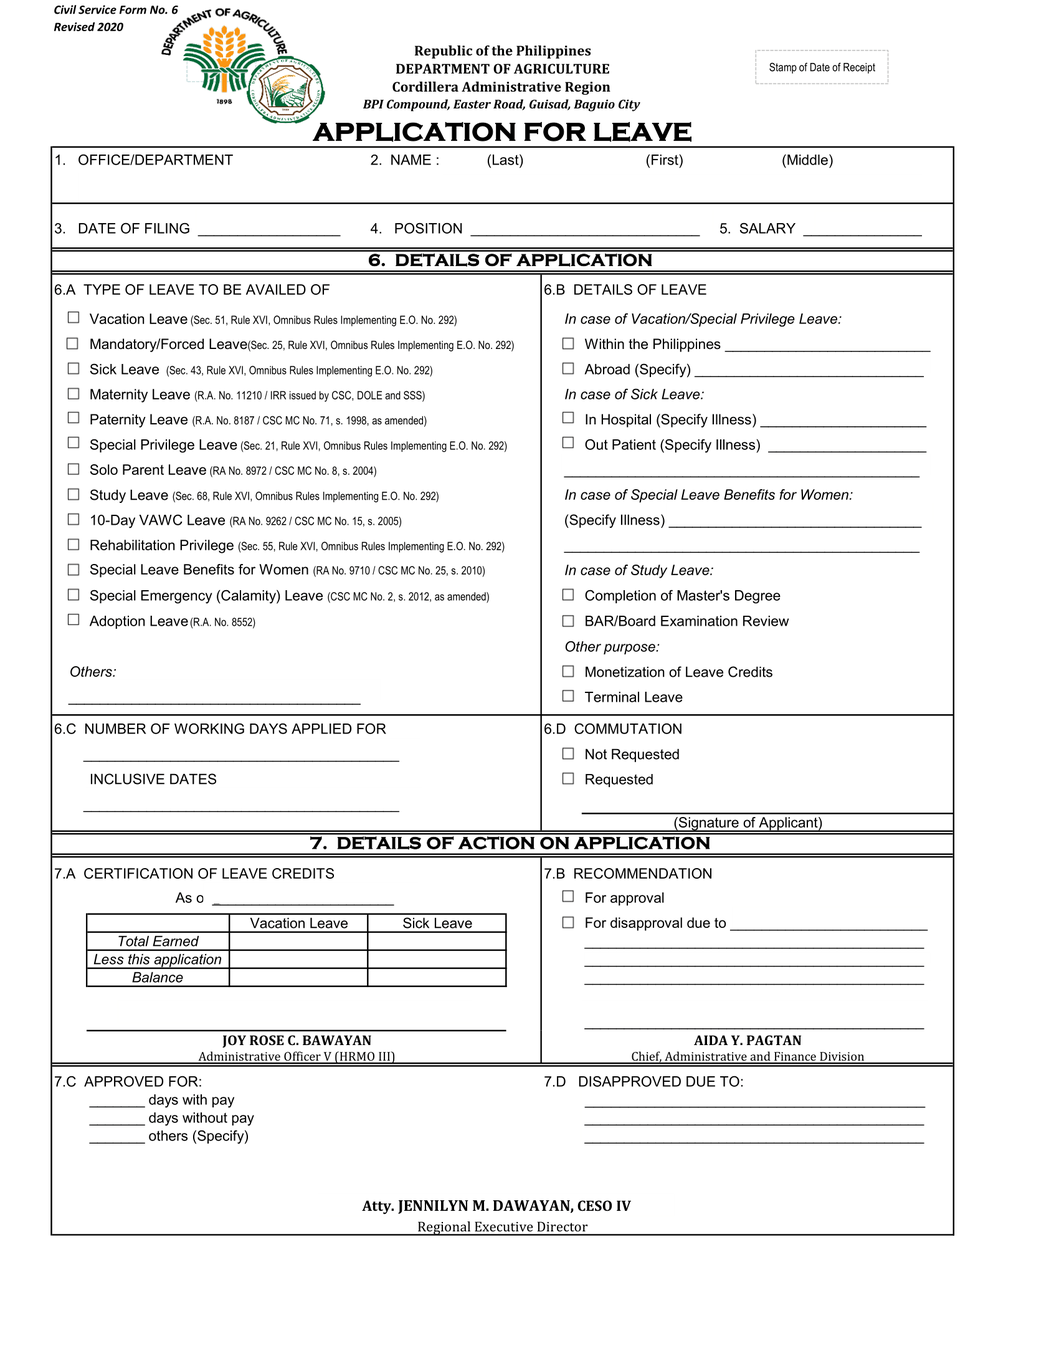
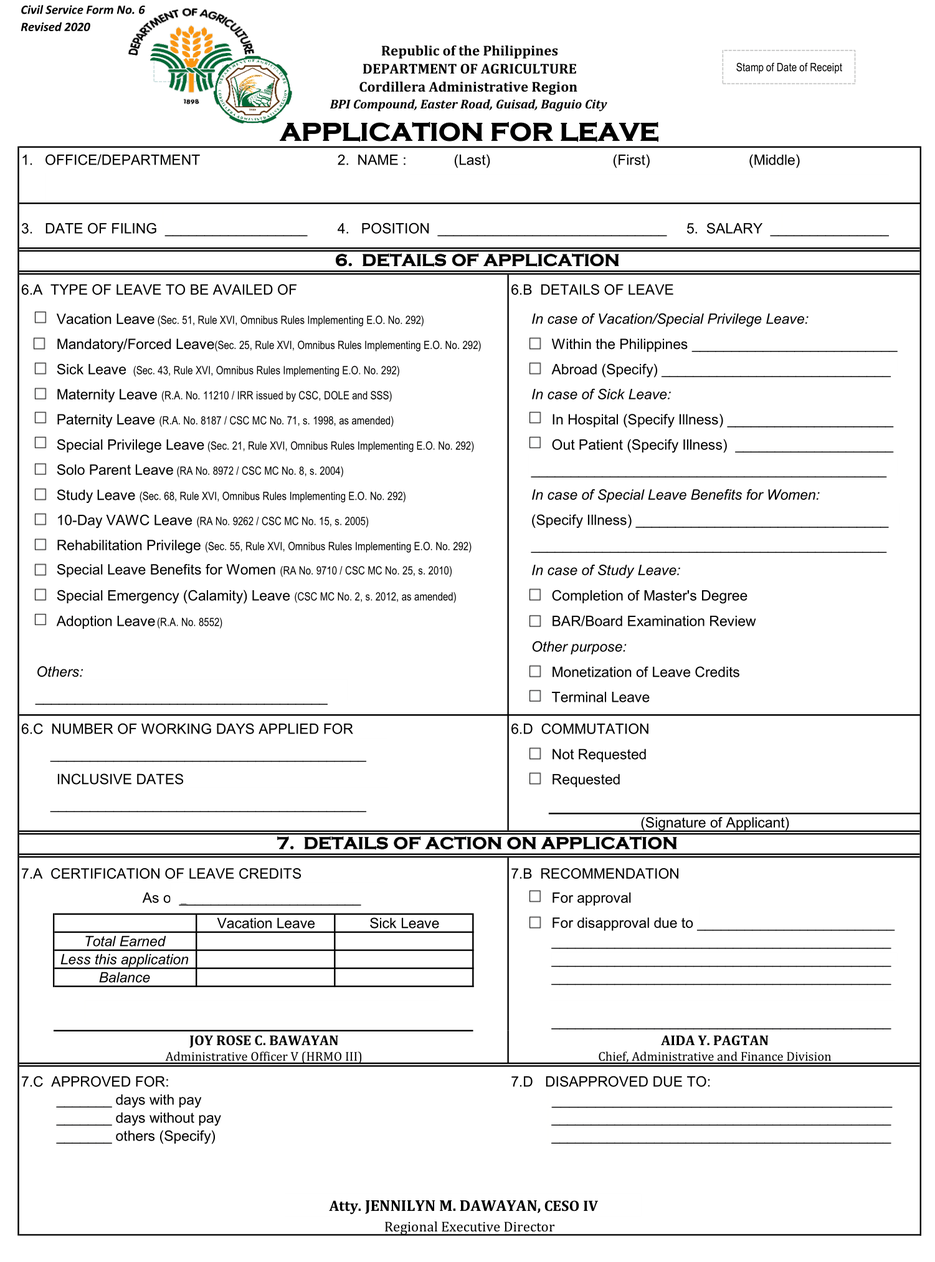
Form Updates

diff --git a/resources/views/leave/print.blade.php b/resources/views/leave/print.blade.php
@@ -14,10 +14,11 @@
         }
         .print-bg-container {
             position: relative;
-            width: 850px;
-            height: 1200px;
-            margin: 30px auto;
+            width: 750px;
+            height: 1120px;
+            margin: 0 auto 0 auto;
             background: #fff;
+            border: none;
         }
         .print-bg-container img.bg {
             position: absolute;
@@ -35,32 +36,36 @@
             box-sizing: border-box;
         }
         @media print {
-            body { background: #fff; }
-            .print-bg-container { margin: 0; }
+            body { 
+                background: #fff; 
+                margin: 0;
+                padding: 0;
+            }
+            .print-bg-container { 
+                margin: 0; 
+                page-break-inside: avoid;
+                break-inside: avoid;
+            }
+            @page {
+                margin: 0;
+                size: A4 portrait;
+            }
         }
         /* Custom checkbox style for print overlay */
-        .print-bg-container input[type="checkbox"] {
+        .print-bg-container .custom-checkbox {
+            display: inline-block;
             width: 11px;
-            height: 12px;
-            margin: 0 2px 0 0;
-            vertical-align: middle;
-            appearance: none;
-            -webkit-appearance: none;
-            -moz-appearance: none;
+            height: 11px;
             border: 1px solid #000;
-            background-color: #fff;
-            border-radius: 2px;
+            background: #fff;
             position: relative;
-            cursor: pointer;
+            vertical-align: middle;
+            margin: 0 2px 0 0;
         }
-        .print-bg-container input[type="checkbox"]:checked {
-            background-color: #fff;
-            border-color: #000;
-        }
-        .print-bg-container input[type="checkbox"]:checked::after {
+        .print-bg-container .custom-checkbox.checked::after {
             content: '';
             position: absolute;
-            left: 2px;
+            left: 3px;
             top: 0px;
             width: 4px;
             height: 7px;
@@ -68,9 +73,24 @@
             border-width: 0 2px 2px 0;
             transform: rotate(45deg);
         }
+        .print-bg-container input[type="checkbox"] {
+            display: none !important;
+        }
+        @media print {
+            #printBtn, #downloadBtn, .size-indicator { display: none !important; }
+            .print-bg-container { border: none; }
+        }
     </style>
 </head>
 <body>
+    <div style="position:fixed; top:20px; right:30px; z-index:1000; display:flex; gap:10px;">
+        <button id="downloadBtn" style="padding:10px 22px; font-size:16px; background:#2196F3; color:#fff; border:none; border-radius:5px; cursor:pointer;">
+            Download PDF
+        </button>
+        <button id="printBtn" style="padding:10px 22px; font-size:16px; background:#4CAF50; color:#fff; border:none; border-radius:5px; cursor:pointer;">
+            Print
+        </button>
+    </div>
     <div class="print-bg-container" id="printArea">
         <img src="{{ asset('cs_form_6_bg.png') }}" class="bg" alt="Form Background">
         <!-- Form fields -->
@@ -102,166 +122,166 @@
         <div class="field" id="field-office" style="top:150px; left:59px; width:180px;">
             {{ $leave->user->offices ?? $leave->office ?? '' }}
         </div>
-        <div class="field" id="field-name_last" style="top:150px; left:357px; width:120px;">
+        <div class="field" id="field-name_last" style="top:160px; left:345px; width:120px;">
             {{ $last }}
         </div>
-        <div class="field" id="field-name_first" style="top:151px; left:481px; width:120px;">
+        <div class="field" id="field-name_first" style="top:160px; left:466px; width:120px;">
             {{ $first }}
         </div>
-        <div class="field" id="field-name_middle" style="top:151px; left:631px; width:69px; height:21px;">
+        <div class="field" id="field-name_middle" style="top:160px; left:619px; width:69px; height:21px;">
             {{ $middle }}
         </div>
-        <div class="field" id="field-filing_date" style="top:190px; left:160px; width:119px; height:20px;">
+        <div class="field" id="field-filing_date" style="top:193px; left:140px; width:119px; height:20px;">
             {{ $filingDate ?? ($leave->filing_date ?? '') }}
         </div>
-        <div class="field" id="field-position" style="top:190px; left:380px; width:193px; height:20px;">
+        <div class="field" id="field-position" style="top:193px; left:360px; width:193px; height:20px;">
             {{ $leave->user->position ?? $leave->position ?? '' }}
         </div>
-        <div class="field" id="field-salary" style="top:190px; left:645px; width:103px; height:20px;">
+        <div class="field" id="field-salary" style="top:193px; left: 625px;px; width:103px; height:20px;">
             {{ $leave->salary ?? '' }}
         </div>
         
         <!-- Leave Type Checkboxes -->
-        <div class="field" id="field-leave_type_vacation" style="top:268px; left:53px; width:40px; height:20px;">
-            <input type="checkbox" id="leave_type_vacation" {{ in_array('Vacation Leave', $leaveTypesArr) ? 'checked' : '' }} disabled>
+        <div class="field" id="field-leave_type_vacation" style="top:272px; left:26px; width:40px; height:20px;">
+            <span class="custom-checkbox{{ in_array('Vacation Leave', $leaveTypesArr) ? ' checked' : '' }}"></span>
         </div>
-        <div class="field" id="field-leave_type_mandatory" style="top:291px; left:53px; width:40px; height:20px;">
-            <input type="checkbox" id="leave_type_mandatory" {{ in_array('Mandatory/Forced Leave', $leaveTypesArr) ? 'checked' : '' }} disabled>
+        <div class="field" id="field-leave_type_mandatory" style="top:295px; left:26px; width:40px; height:20px;">
+            <span class="custom-checkbox{{ in_array('Mandatory/Forced Leave', $leaveTypesArr) ? ' checked' : '' }}"></span>
         </div>
-        <div class="field" id="field-leave_type_sick" style="top:313px; left:53px; width:40px; height:20px;">
-            <input type="checkbox" id="leave_type_sick" {{ in_array('Sick Leave', $leaveTypesArr) ? 'checked' : '' }} disabled>
+        <div class="field" id="field-leave_type_sick" style="top:317px; left:26px; width:40px; height:20px;">
+            <span class="custom-checkbox{{ in_array('Sick Leave', $leaveTypesArr) ? ' checked' : '' }}"></span>
         </div>
-        <div class="field" id="field-leave_type_maternity" style="top:335px; left:53px; width:40px; height:20px;">
-            <input type="checkbox" id="leave_type_maternity" {{ in_array('Maternity Leave', $leaveTypesArr) ? 'checked' : '' }} disabled>
+        <div class="field" id="field-leave_type_maternity" style="top:339px; left:26px; width:40px; height:20px;">
+            <span class="custom-checkbox{{ in_array('Maternity Leave', $leaveTypesArr) ? ' checked' : '' }}"></span>
         </div>
-        <div class="field" id="field-leave_type_paternity" style="top:356px; left:53px; width:40px; height:20px;">
-            <input type="checkbox" id="leave_type_paternity" {{ in_array('Paternity Leave', $leaveTypesArr) ? 'checked' : '' }} disabled>
+        <div class="field" id="field-leave_type_paternity" style="top:360px; left:26px; width:40px; height:20px;">
+            <span class="custom-checkbox{{ in_array('Paternity Leave', $leaveTypesArr) ? ' checked' : '' }}"></span>
         </div>
-        <div class="field" id="field-leave_type_special_privilege" style="top:378px; left:53px; width:40px; height:20px;">
-            <input type="checkbox" id="leave_type_special_privilege" {{ in_array('Special Privilege Leave', $leaveTypesArr) ? 'checked' : '' }} disabled>
+        <div class="field" id="field-leave_type_special_privilege" style="top:382px; left:26px; width:40px; height:20px;">
+            <span class="custom-checkbox{{ in_array('Special Privilege Leave', $leaveTypesArr) ? ' checked' : '' }}"></span>
         </div>
-        <div class="field" id="field-leave_type_solo_parent" style="top:401px; left:53px; width:40px; height:20px;">
-            <input type="checkbox" id="leave_type_solo_parent" {{ in_array('Solo Parent Leave', $leaveTypesArr) ? 'checked' : '' }} disabled>
+        <div class="field" id="field-leave_type_solo_parent" style="top:405px; left:26px; width:40px; height:20px;">
+            <span class="custom-checkbox{{ in_array('Solo Parent Leave', $leaveTypesArr) ? ' checked' : '' }}"></span>
         </div>
-        <div class="field" id="field-leave_type_study" style="top:423px; left:53px; width:40px; height:20px;">
-            <input type="checkbox" id="leave_type_study" {{ in_array('Study Leave', $leaveTypesArr) ? 'checked' : '' }} disabled>
+        <div class="field" id="field-leave_type_study" style="top:429px; left:26px; width:40px; height:20px;">
+            <span class="custom-checkbox{{ in_array('Study Leave', $leaveTypesArr) ? ' checked' : '' }}"></span>
         </div>
-        <div class="field" id="field-leave_type_vawc" style="top:445px; left:53px; width:40px; height:20px;">
-            <input type="checkbox" id="leave_type_vawc" {{ in_array('10-Day VAWC Leave', $leaveTypesArr) ? 'checked' : '' }} disabled>
+        <div class="field" id="field-leave_type_vawc" style="top:450px; left:26px; width:40px; height:20px;">
+            <span class="custom-checkbox{{ in_array('10-Day VAWC Leave', $leaveTypesArr) ? ' checked' : '' }}"></span>
         </div>
-        <div class="field" id="field-leave_type_rehabilitation" style="top:467px; left:53px; width:40px; height:20px;">
-            <input type="checkbox" id="leave_type_rehabilitation" {{ in_array('Rehabilitation Privilege', $leaveTypesArr) ? 'checked' : '' }} disabled>
+        <div class="field" id="field-leave_type_rehabilitation" style="top:473px; left:26px; width:40px; height:20px;">
+            <span class="custom-checkbox{{ in_array('Rehabilitation Privilege', $leaveTypesArr) ? ' checked' : '' }}"></span>
         </div>
-        <div class="field" id="field-special_leave_benefits" style="top:489px; left:53px; width:40px; height:20px;">
-            <input type="checkbox" id="special_leave_benefits" {{ in_array('Special Leave Benefits for Women', $leaveTypesArr) ? 'checked' : '' }} disabled>
+        <div class="field" id="field-special_leave_benefits" style="top:495px; left:26px; width:40px; height:20px;">
+            <span class="custom-checkbox{{ in_array('Special Leave Benefits for Women', $leaveTypesArr) ? ' checked' : '' }}"></span>
         </div>
-        <div class="field" id="field-leave_type_calamity" style="top:511px; left:53px; width:40px; height:20px;">
-            <input type="checkbox" id="leave_type_calamity" {{ in_array('Special Emergency (Calamity) Leave', $leaveTypesArr) ? 'checked' : '' }} disabled>
+        <div class="field" id="field-leave_type_calamity" style="top:517px; left:26px; width:40px; height:20px;">
+            <span class="custom-checkbox{{ in_array('Special Emergency (Calamity) Leave', $leaveTypesArr) ? ' checked' : '' }}"></span>
         </div>
-        <div class="field" id="field-leave_type_adoption" style="top:533px; left:53px; width:40px; height:20px;">
-            <input type="checkbox" id="leave_type_adoption" {{ in_array('Adoption Leave', $leaveTypesArr) ? 'checked' : '' }} disabled>
+        <div class="field" id="field-leave_type_adoption" style="top:539px; left:26px; width:40px; height:20px;">
+            <span class="custom-checkbox{{ in_array('Adoption Leave', $leaveTypesArr) ? ' checked' : '' }}"></span>
         </div>
-        <div class="field" id="field-leave_type_other" style="top:600px; left:60px; width:245px; height:20px;">
+        <div class="field" id="field-leave_type_other" style="top:607px; left:40px; width:245px; height:20px;">
             {{ $leave->leave_type_other ?? '' }}
         </div>
         
         <!-- Detail Checkboxes -->
-        <div class="field" id="field-within_ph" style="top:290px; left:450px; width:40px; height:20px;">
-            <input type="checkbox" id="within_ph" {{ $leave->within_ph == 'Yes' ? 'checked' : '' }} disabled>
+        <div class="field" id="field-within_ph" style="top:295px; left:423px; width:40px; height:20px;">
+            <span class="custom-checkbox{{ $leave->within_ph == 'Yes' ? ' checked' : '' }}"></span>
         </div>
-        <div class="field" id="field-within_ph_details" style="top:290px; left:590px; width:180px; height:20px;">
+        <div class="field" id="field-within_ph_details" style="top:295px; left:563px; width:180px; height:20px;">
             {{ $leave->within_ph_details ?? '' }}
         </div>
-        <div class="field" id="field-abroad" style="top:312px; left:450px; width:40px; height:20px;">
-            <input type="checkbox" id="abroad" {{ $leave->abroad == 'Yes' ? 'checked' : '' }} disabled>
+        <div class="field" id="field-abroad" style="top:317px; left:423px; width:40px; height:20px;">
+            <span class="custom-checkbox{{ $leave->abroad == 'Yes' ? ' checked' : '' }}"></span>
         </div>
-        <div class="field" id="field-abroad_details" style="top:312px; left:565px; width:194px; height:20px;">
+        <div class="field" id="field-abroad_details" style="top:317px; left:538px; width:194px; height:20px;">
             {{ $leave->abroad_details ?? '' }}
         </div>
-        <div class="field" id="field-in_hospital" style="top:355px; left:450px; width:40px; height:20px;">
-            <input type="checkbox" id="in_hospital" {{ $leave->in_hospital == 'Yes' ? 'checked' : '' }} disabled>
+        <div class="field" id="field-in_hospital" style="top:360px; left:423px; width:40px; height:20px;">
+            <span class="custom-checkbox{{ $leave->in_hospital == 'Yes' ? ' checked' : '' }}"></span>
         </div>
-        <div class="field" id="field-in_hospital_details" style="top:358px; left:612px; width:146px; height:20px;">
+        <div class="field" id="field-in_hospital_details" style="top:363px; left:585px; width:146px; height:20px;">
             {{ $leave->in_hospital_details ?? '' }}
         </div>
-        <div class="field" id="field-out_patient" style="top:377px; left:450px; width:40px; height:20px;">
-            <input type="checkbox" id="out_patient" {{ $leave->out_patient == 'Yes' ? 'checked' : '' }} disabled>
+        <div class="field" id="field-out_patient" style="top:382px; left:423px; width:40px; height:20px;">
+            <span class="custom-checkbox{{ $leave->out_patient == 'Yes' ? ' checked' : '' }}"></span>
         </div>
-        <div class="field" id="field-out_patient_details" style="top:400px; left:455px; width:289px; height:23px;">
+        <div class="field" id="field-out_patient_details" style="top:407px; left:440px; width:289px; height:23px;">
             {{ $leave->out_patient_details ?? '' }}
         </div>
 
-        <div class="field" id="field-special_leave_details" style="top:468px; left:455px; width:292px; height:20px;">
+        <div class="field" id="field-special_leave_details" style="top:473px; left:440px; width:292px; height:20px;">
             {{ $leave->special_leave_details ?? '' }}
         </div>
-        <div class="field" id="field-completion_masters" style="top:510px; left:450px; width:40px; height:20px;">
-            <input type="checkbox" id="completion_masters" {{ $leave->completion_masters == 'Yes' ? 'checked' : '' }} disabled>
+        <div class="field" id="field-completion_masters" style="top:517px; left:423px; width:40px; height:20px;">
+            <span class="custom-checkbox{{ $leave->completion_masters == 'Yes' ? ' checked' : '' }}"></span>
         </div>
-        <div class="field" id="field-bar_exam" style="top:533px; left:450px; width:40px; height:20px;">
-            <input type="checkbox" id="bar_exam" {{ $leave->bar_exam == 'Yes' ? 'checked' : '' }} disabled>
+        <div class="field" id="field-bar_exam" style="top:540px; left:423px; width:40px; height:20px;">
+            <span class="custom-checkbox{{ $leave->bar_exam == 'Yes' ? ' checked' : '' }}"></span>
         </div>
-        <div class="field" id="field-monetization" style="top:577px; left:450px; width:40px; height:20px;">
-            <input type="checkbox" id="monetization" {{ $leave->monetization == 'Yes' ? 'checked' : '' }} disabled>
+        <div class="field" id="field-monetization" style="top:585px; left:423px; width:40px; height:20px;">
+            <span class="custom-checkbox{{ $leave->monetization == 'Yes' ? ' checked' : '' }}"></span>
         </div>
-        <div class="field" id="field-terminal_leave" style="top:599px; left:450px; width:40px; height:20px;">
-            <input type="checkbox" id="terminal_leave" {{ $leave->terminal_leave == 'Yes' ? 'checked' : '' }} disabled>
+        <div class="field" id="field-terminal_leave" style="top:607px; left:423px; width:40px; height:20px;">
+            <span class="custom-checkbox{{ $leave->terminal_leave == 'Yes' ? ' checked' : '' }}"></span>
         </div>
         
         <!-- Number of Days and Dates -->
-        <div class="field" id="field-num_days" style="top:650px; left:100px; width:259px; height:20px;">
+        <div class="field" id="field-num_days" style="top:658px; left:100px; width:259px; height:20px;">
             {{ $leave->num_days ?? '' }}
         </div>
-        <div class="field" id="field-inclusive_dates" style="top:694px; left:66px; width:258px; height:20px;">
+        <div class="field" id="field-inclusive_dates" style="top:705px; left:50px; width:258px; height:20px;">
             {{ $leave->inclusive_dates ?? '' }}
         </div>
         
         <!-- Commutation Checkboxes -->
-        <div class="field" id="field-commutation_not_requested" style="top:649px; left:450px; width:40px; height:20px;">
-            <input type="checkbox" id="commutation_not_requested" {{ $leave->commutation == 'Not Requested' ? 'checked' : '' }} disabled>
+        <div class="field" id="field-commutation_not_requested" style="top:660px; left:423px; width:40px; height:20px;">
+            <span class="custom-checkbox{{ $leave->commutation == 'Not Requested' ? ' checked' : '' }}"></span>
         </div>
-        <div class="field" id="field-commutation_requested" style="top:671px; left:450px; width:40px; height:20px;">
-            <input type="checkbox" id="commutation_requested" {{ $leave->commutation == 'Requested' ? 'checked' : '' }} disabled>
+        <div class="field" id="field-commutation_requested" style="top:680px; left:423px; width:40px; height:20px;">
+            <span class="custom-checkbox{{ $leave->commutation == 'Requested' ? ' checked' : '' }}"></span>
         </div>
         
         <!-- Certification Fields -->
-        <div class="field" id="field-cert_as_of_date" style="top:776px; left:180px; width:152px; height:20px;">
+        <div class="field" id="field-cert_as_of_date" style="top:785px; left:180px; width:152px; height:20px;">
             {{ $certData['as_of_date'] ?? $certDate ?? '' }}
         </div>
-        <div class="field" id="field-cert_vl_earned" style="top:816px; left:188px; width:113px; height:20px;">
+        <div class="field" id="field-cert_vl_earned" style="top:828px; left:165px; width:113px; height:20px;">
             {{ $certData['vl_earned'] ?? '' }}
         </div>
-        <div class="field" id="field-cert_vl_less" style="top:831px; left:188px; width:115px; height:20px;">
+        <div class="field" id="field-cert_vl_less" style="top:843px; left:165px; width:115px; height:20px;">
             {{ $certData['vl_less'] ?? '' }}
         </div>
-        <div class="field" id="field-cert_vl_balance" style="top:847px; left:188px; width:114px; height:20px;">
+        <div class="field" id="field-cert_vl_balance" style="top:859px; left:165px; width:114px; height:20px;">
             {{ $certData['vl_balance'] ?? '' }}
         </div>
-        <div class="field" id="field-cert_sl_earned" style="top:815px; left:300px; width:109px; height:20px;">
+        <div class="field" id="field-cert_sl_earned" style="top:827px; left:280px; width:109px; height:20px;">
             {{ $certData['sl_earned'] ?? '' }}
         </div>
-        <div class="field" id="field-cert_sl_less" style="top:833px; left:300px; width:111px; height:20px;">
+        <div class="field" id="field-cert_sl_less" style="top:843px; left:280px; width:111px; height:20px;">
             {{ $certData['sl_less'] ?? '' }}
         </div>
-        <div class="field" id="field-cert_sl_balance" style="top:848px; left:300px; width:113px; height:20px;">
+        <div class="field" id="field-cert_sl_balance" style="top:859px; left:280px; width:113px; height:20px;">
             {{ $certData['sl_balance'] ?? '' }}
         </div>
         
         <!-- Overlay white boxes and dynamic signatory names/positions -->
         <!-- 1st signatory (HR) -->
-        <div style="position:absolute; top:905px; left:150px; width:220px; height:25px; background:#fff; z-index:10;"></div>
-        <div style="position:absolute; top:900px; left:150px; width:210px; z-index:11; text-align:center;">
+        <div style="position:absolute; top:915px; left:120px; width:220px; height:27px; background:#fff; z-index:10;"></div>
+        <div style="position:absolute; top:915px; left:120px; width:210px; z-index:11; text-align:center;">
             <span style="font-family:Cambria,serif; font-size:10pt; font-weight:bold; letter-spacing:0.5px;">{{ $certData['hr_name'] ?? 'JOY ROSE C. BAWAYAN' }}</span>
             <span style="font-family:Cambria,serif; font-size:9pt; display:block; line-height:1.1; margin-top:-2px;">{{ $certData['hr_position'] ?? 'Administrative Officer V (HRMO III)' }}</span>
         </div>
         <!-- 2nd signatory (Admin) -->
-        <div style="position:absolute; top:905px; left:440px; width:300px; height:25px; background:#fff; z-index:10;"></div>
-        <div style="position:absolute; top:900px; left:445px; width:300px; z-index:11; text-align:center;">
+        <div style="position:absolute; top:915px; left:435px; width:300px; height:27px; background:#fff; z-index:10;"></div>
+        <div style="position:absolute; top:915px; left:435px; width:300px; z-index:11; text-align:center;">
             <span style="font-family:Cambria,serif; font-size:10pt; font-weight:bold; letter-spacing:0.5px;">{{ $certData['admin_name'] ?? 'AIDA Y. PAGTAN' }}</span>
             <span style="font-family:Cambria,serif; font-size:9pt; display:block; line-height:1.1; margin-top:-2px;">{{ $certData['admin_position'] ?? 'Chief, Administrative and Finance Division' }}</span>
         </div>
         <!-- 3rd signatory (Director) -->
-        <div style="position:absolute; top:1050px; left:220px; width:400px; height:30px; background:#fff; z-index:10;"></div>
-        <div style="position:absolute; top:1045px; left:225px; width:390px; z-index:11; text-align:center;">
+        <div style="position:absolute; top:1065px; left:210px; width:400px; height:30px; background:#fff; z-index:10;"></div>
+        <div style="position:absolute; top:1065px; left:210px; width:390px; z-index:11; text-align:center;">
             <span style="font-family:Cambria,serif; font-size:10pt; font-weight:bold; letter-spacing:0.5px;">{{ $certData['director_name'] ?? 'Atty. JENNILYN M. DAWAYAN, CESO IV' }}</span>
             <span style="font-family:Cambria,serif; font-size:9pt; display:block; line-height:1.1; margin-top:-2px;">{{ $certData['director_position'] ?? 'Regional Executive Director' }}</span>
         </div>
@@ -269,22 +289,37 @@
     
     <script src="https://cdnjs.cloudflare.com/ajax/libs/html2pdf.js/0.10.1/html2pdf.bundle.min.js"></script>
     <script>
-        // Simple print functionality
-        window.print = function() {
-            window.print();
-        };
-        
         // PDF download functionality
         function downloadPDF() {
             const element = document.getElementById('printArea');
-            html2pdf().set({
-                margin: 0,
-                filename: 'leave-application.pdf',
-                image: { type: 'jpeg', quality: 0.98 },
-                html2canvas: { scale: 2 },
-                jsPDF: { unit: 'pt', format: 'a4', orientation: 'portrait' }
-            }).from(element).save();
+            element.scrollIntoView({ behavior: 'instant', block: 'start' }); // Scrolls form to top
+            setTimeout(() => {
+                html2pdf().set({
+                    margin: [0, 0, 0, 0],
+                    filename: 'leave-application.pdf',
+                    image: { type: 'jpeg', quality: 0.98 },
+                    html2canvas: { 
+                        scale: 2,
+                        useCORS: true,
+                        allowTaint: true
+                    },
+                    jsPDF: { 
+                        unit: 'pt', 
+                        format: 'a4', 
+                        orientation: 'portrait',
+                        compress: true
+                    }
+                }).from(element).save();
+            }, 200); // Wait a moment for scroll to finish
         }
+
+        document.addEventListener('DOMContentLoaded', function() {
+            var printBtn = document.getElementById('printBtn');
+            var downloadBtn = document.getElementById('downloadBtn');
+            
+            if (printBtn) printBtn.addEventListener('click', function() { window.print(); });
+            if (downloadBtn) downloadBtn.addEventListener('click', function() { downloadPDF(); });
+        });
     </script>
 </body>
 </html>

diff --git a/resources/views/leave/show.blade.php b/resources/views/leave/show.blade.php
@@ -35,7 +35,7 @@
             align-items: center;
             padding: 8px 16px;
             background-color: #f0f0f0;
-            color: #333;
+            color: #fff;
             border: 1px solid #ddd;
             border-radius: 4px;
             text-decoration: none;
